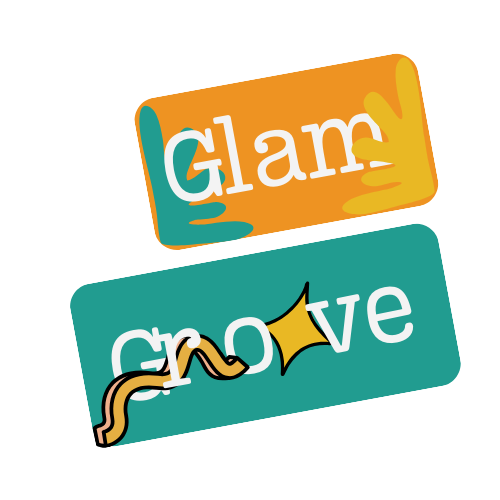
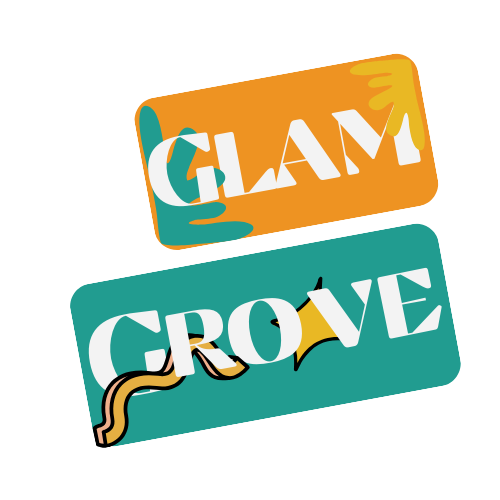
merevisi footer

Changed region(s): [[0.18, 0.54, 0.9, 0.81], [0.27, 0.12, 0.87, 0.45]]

diff --git a/tailwind.config.js b/tailwind.config.js
@@ -22,11 +22,17 @@ module.exports = {
             transparent: "transparent",
             current: "currentColor",
             navbar: "#ED7D31",
+            orange_muda: "#FA9B5A",
             coklat: "#6C5F5B",
+            coklat_muda: "#887A77",
             abu: "#4F4A45",
+            abu_muda:"#6B6663",
             putih: "#F6F1EE",
             hijau: "#898121",
         },
-
+        fontFamily: {
+            Ghetto : ['FunGhetto'] ,
+            Arial :['ArialRounded']
+        },
     },
 };

diff --git a/resources/views/partials/navbar.blade.php b/resources/views/partials/navbar.blade.php
@@ -1,6 +1,6 @@
 <!-- component -->
-<div class="container">   
-<nav class="flex px-10 border-b md:shadow-lg items-center relative bg-navbar z-10 ">
+<div class="container shadow-md">   
+<nav class="flex px-[50px] md:shadow-lg items-center relative bg-navbar">
         <style>
             @media only screen and (min-width: 768px){
             .parent:hover .child {
@@ -13,22 +13,27 @@
                 opacity:0;
                 height:0;
                 overflow:hidden;
-                transform: translateY(-10%);
+                transform: translateY(-15%);
               }
             }
             </style>
             <div class="flex text-lg font-bold md:py-0 py-4">
-                <img src="/../img/GlamGroove.png" alt="GlamGroove" class="w-20">
+                <img src="/../img/GlamGroove.png" alt="GlamGroove" class="w-[25%] ">
             </div>
             <ul class="md:px-2 ml-auto md:flex md:space-x-2 absolute md:relative top-full left-0 right-0">
                 <li>
                     <a href="#" class="flex md:inline-flex p-4 items-center">
-                        <span class="text-white">Home</span>
+                        <span class="text-putih">Home</span>
+                    </a>
+                </li>
+                <li>
+                    <a href="#" class="flex md:inline-flex p-4 items-center">
+                        <span class="text-putih">About</span>
                     </a>
                 </li>
                 <li class="relative parent">
-                    <a href="#" class="flex justify-between md:inline-flex p-4 items-center  space-x-2">
-                        <span class="text-white">News</span>
+                    <a href="#" class="flex justify-between md:inline-flex p-4 items-center space-x-2   ">
+                        <span class="text-putih">News</span>
                         <svg class="w-3 h-3 text-putih dark:text-white" aria-hidden="true" xmlns="http://www.w3.org/2000/svg" fill="none" viewBox="0 0 14 8">
                             <path stroke="currentColor" stroke-linecap="round" stroke-linejoin="round" stroke-width="2" d="m1 1 5.326 5.7a.909.909 0 0 0 1.348 0L13 1"/>
                           </svg>
@@ -36,46 +41,37 @@
                     <ul class="child transition duration-300 md:absolute top-full right-0 md:w-48 bg-putih md:shadow-lg md:rounded-b ">
                         <li>
                             <a href="#" class="flex px-4 py-3 hover:bg-coklat ">    
-                                Technology
-                            </a>
-                        </li>
-                        <li>
-                            <a href="#" class="flex px-4 py-3 hover:bg-coklat ">
-                                Game
-                            </a>
-                        </li>
-                        <li>
-                            <a href="#" class="flex px-4 py-3 hover:bg-coklat ">
                                 Anime
+                            </a>
+                        </li>
+                        <li>
+                            <a href="#" class="flex px-4 py-3 hover:bg-coklat ">
+                                Film
+                            </a>
+                        </li>
+                        <li>
+                            <a href="#" class="flex px-4 py-3 hover:bg-coklat ">
+                                Gadgets
+                            </a>
+                        </li>
+                        <li>
+                            <a href="#" class="flex px-4 py-3 hover:bg-coklat ">
+                                Games
+                            </a>
+                        </li>
+                        <li>
+                            <a href="#" class="flex px-4 py-3 hover:bg-coklat ">
+                                Music
+                            </a>
+                        </li>
+                        <li>
+                            <a href="#" class="flex px-4 py-3 hover:bg-coklat ">
+                                Technology
                             </a>
                         </li>
                     </ul>
                 </li>
                 <li>
-                    <li class="relative parent">
-                        <a href="#" class="flex justify-between md:inline-flex p-4 items-center space-x-2">
-                            <span class="text-white">Self Development</span>
-                            <svg class="w-3 h-3 text-putih dark:text-white" aria-hidden="true" xmlns="http://www.w3.org/2000/svg" fill="none" viewBox="0 0 14 8">
-                                <path stroke="currentColor" stroke-linecap="round" stroke-linejoin="round" stroke-width="2" d="m1 1 5.326 5.7a.909.909 0 0 0 1.348 0L13 1"/>
-                              </svg>
-                            </a>
-                        <ul class="child transition duration-300 md:absolute top-full right-0 md:w-48 bg-putih md:shadow-lg md:rounded-b ">
-                            <li>
-                                <a href="#" class="flex px-4 py-3 hover:bg-coklat ">
-                                    Education
-                                </a>
-                            </li>
-                            <li>
-                                <a href="#" class="flex px-4 py-3 hover:bg-coklat">
-                                    Job
-                                </a>
-                            </li>
-                        </ul>
-                    </li>
-                    <li>
-                        <a href="#" class="flex md:inline-flex p-4 items-center">
-                            <span class="text-white">Merchandise</span>
-                        </a>
                     </li>
                     <li>
                         <a href="#" class="flex md:inline-flex p-4 items-center">

diff --git a/resources/views/partials/footer.blade.php b/resources/views/partials/footer.blade.php
@@ -1,28 +1,62 @@
-<div class="w-full min-h-screen flex items-center justify-center bg-navbar ">
-	<div class="md:w-2/3 w-full px-4 text-white flex flex-col">
-		<div class="w-full text-7xl font-bold">
-			<h1 class="w-full md:w-2/3">All the news about tech . can be found! </h1>
-		</div>
-		<div class="flex mt-8 flex-col md:flex-row md:justify-between">
-			<p class="w-full md:w-2/3 text-putih">To ensure that all Wikipedia content is verifiable, anyone may question an uncited claim. If your work has been tagged</p>
-			<div class="w-44 pt-6 md:pt-0">
-				<a class="bg-abu justify-center text-center rounded-lg shadow px-10 py-3 flex items-center text-putih hover:bg-coklat">Contact US</a>
+<footer class="py-6 bg-navbar">
+	<div class="container px-6 mx-auto space-y-6 divide-y dark:divide-gray-400 md:space-y-12 divide-opacity-50">
+		<div class="grid grid-cols-12">
+			<div class="pb-6 col-span-full md:pb-0 md:col-span-6">
+				<a rel="noopener noreferrer" href="#" class="flex justify-center space-x-3 md:justify-start">
+					<div class="flex items-center justify-center w-[200px] h-[200px] rounded-full dark:bg-violet-400">
+						<img src="/../img/GlamGroove.png" alt="GlamGroove">
+					</div>
+					<span class="self-center text-5xl font-Ghetto text-putih"> GlamGroove</span>
+				</a>
+			</div>
+			<div class="col-span-6 text-center md:text-left md:col-span-3 text-putih">
+				<p class="pb-1 text-xl font-Arial">Features</p>
+				<ul>
+					<li>
+						<a rel="noopener noreferrer" href="#" class="hover:dark:text-violet-400">Hot News</a>
+					</li>
+					<li>
+						<a rel="noopener noreferrer" href="#" class="hover:dark:text-violet-400">News</a>
+					</li>
+					<li>
+						<a rel="noopener noreferrer" href="#" class="hover:dark:text-violet-400">About</a>
+					</li>
+				</ul>
+			</div>
+			<div class="col-span-6 text-center md:text-left md:col-span-3 text-putih">
+				<p class="pb-1 text-xl font-Arial">News</p>
+				<ul>
+					<li>
+						<a rel="noopener noreferrer" href="#" class="hover:dark:text-violet-400">Anime</a>
+					</li>
+					<li>
+						<a rel="noopener noreferrer" href="#" class="hover:dark:text-violet-400">film</a>
+					</li>
+					<li>
+						<a rel="noopener noreferrer" href="#" class="hover:dark:text-violet-400">Gadgets</a>
+					</li>
+					<li>
+						<a rel="noopener noreferrer" href="#" class="hover:dark:text-violet-400">Games</a>
+					</li>
+					<li>
+						<a rel="noopener noreferrer" href="#" class="hover:dark:text-violet-400">Music</a>
+					</li>
+					<li>
+						<a rel="noopener noreferrer" href="#" class="hover:dark:text-violet-400">Technology</a>
+					</li>
+				</ul>
 			</div>
 		</div>
-		<div class="flex flex-col">
-			<div class="flex mt-24 mb-12 flex-row justify-between">
-				<div class="footer text-3xl text-putih  hover:text-coklat" >
-					<a href="/home" >Glam Groove</a>    
-				</div>
-				<a class="hidden md:block cursor-pointer text-putih hover:text-coklat uppercase">Hot News</a>
-				<a class="hidden md:block cursor-pointer text-putih hover:text-coklat uppercase">News</a>
-				<a class="hidden md:block cursor-pointer text-putih hover:text-coklat uppercase">Self Development</a>
-				<a class="hidden md:block cursor-pointer text-putih hover:text-coklat uppercase">Merchandise</a>
-				<div class="flex flex-row space-x-8 items-center justify-between">	
-				</div>
+		<div class="grid justify-center pt-6 lg:justify-between text-putih">
+			<div class="flex flex-col self-center text-sm text-center md:block lg:col-start-1 md:space-x-6">
+				<span>GlamGroove 2023 All rights reserved</span>
+				<a rel="noopener noreferrer" href="#">
+					<span>Privacy policy</span>
+				</a>
+				<a rel="noopener noreferrer" href="#">
+					<span>Terms of service</span>
+				</a>
 			</div>
-			<hr class="border-abu"/>
-			<p class="w-full text-center my-12 text-putih">Copyright © 2023 Glam Groove</p>
 		</div>
 	</div>
-</div>
+</footer>

diff --git a/resources/views/register/index.blade.php b/resources/views/register/index.blade.php
@@ -27,7 +27,7 @@
                         <input id="terms" aria-describedby="terms" type="checkbox" class="w-4 h-4 border border-gray-300 rounded bg-gray-50 focus:ring-3 focus:ring-primary-300 dark:bg-gray-700 dark:border-gray-600 dark:focus:ring-primary-600 dark:ring-offset-gray-800" required="">
                       </div>
                       <div class="ml-3 text-sm">
-                        <label for="terms" class="font-light text-gray-500 dark:text-gray-300">I accept the <a class="font-medium text-primary-600 hover:underline dark:text-primary-500" href="#">Terms and Conditions</a></label>
+                        <label for="terms" class="font-light text-gray-500 dark:text-gray-300"><a class="font-medium text-primary-600 hover:underline dark:text-primary-500" >show Password</a></label>
                       </div>
                   </div>
                   <button type="submit" class="w-full bg-navbar text-white bg-primary-600 hover:bg-primary-700 focus:ring-4 focus:outline-none focus:ring-primary-300 font-medium rounded-lg text-sm px-5 py-2.5 text-center dark:bg-primary-600 dark:hover:bg-primary-700 dark:focus:ring-primary-800">Create an account</button>

diff --git a/resources/views/home.blade.php b/resources/views/home.blade.php
@@ -42,7 +42,7 @@
     <div class="container px-5 py-24 mx-auto">
       <div class="flex flex-wrap w-full mb-20">
         <div class="lg:w-1/2 w-full mb-6 lg:mb-0">
-          <h1 class="sm:text-3xl text-2xl font-medium title-font mb-2 text-abu text-">Hot News</h1>
+          <h1 class="text-7xl font-Ghetto title-font mb-2 text-abu">Hot News</h1>
           <div class="h-1 w-20 bg-coklat rounded"></div>
         </div>
         <p class="lg:w-1/2 w-full leading-relaxed text-gray-500">Whatever cardigan tote bag tumblr hexagon brooklyn asymmetrical gentrify, subway tile poke farm-to-table. Franzen you probably haven't heard of them man bun deep jianbing selfies heirloom prism food truck ugh squid celiac humblebrag.</p>

diff --git a/resources/views/dashboard/index.blade.php b/resources/views/dashboard/index.blade.php
@@ -13,7 +13,7 @@
               <div class="text-putih text-xs">Admin<br>terhubung</div>
               <div class="h-100 border-l mx-4"></div>
               <div class="flex flex-nowrap -space-x-3">
-                <div class="font-bold text-xl text-putih leading-none">Hallo , <br>Kristin
+                <div class="font-bold text-xl text-putih leading-none">Hallo , <br>admin
                 </div>
               </div>
             </div>
